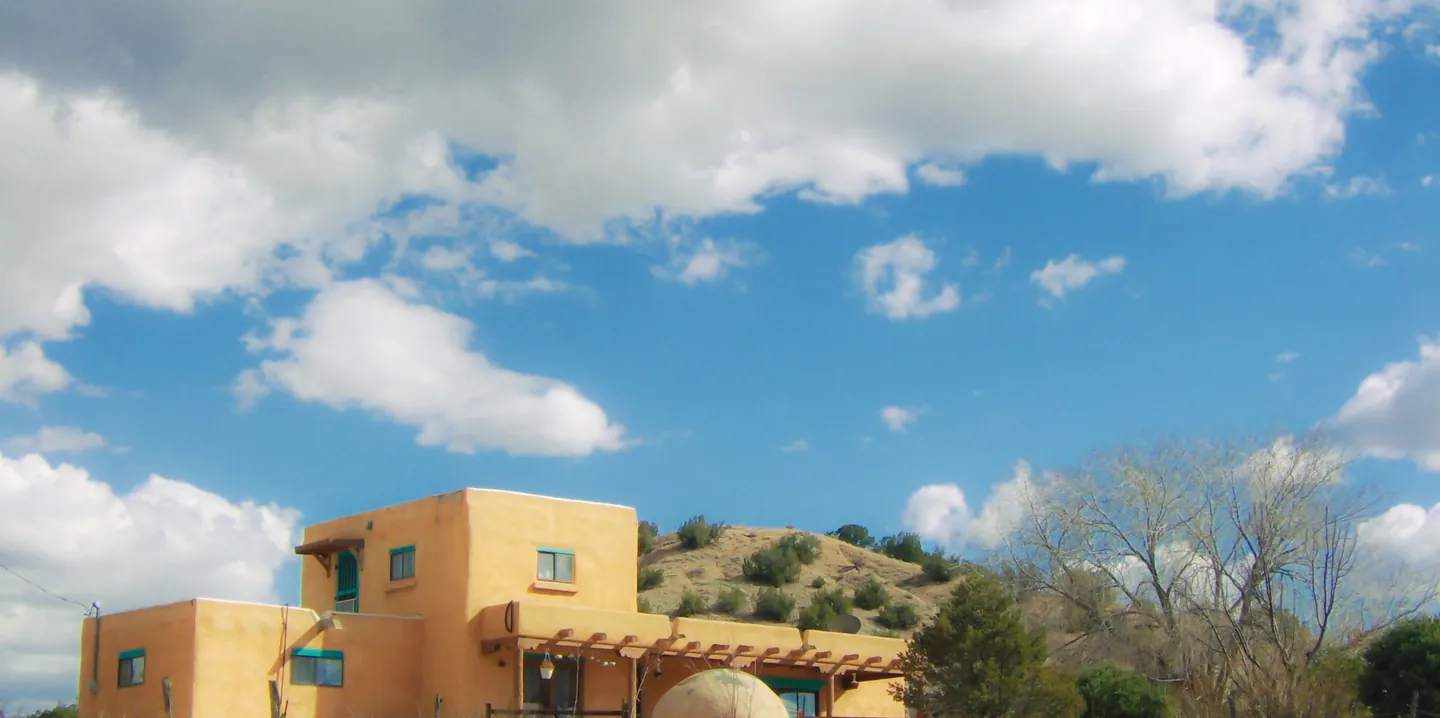
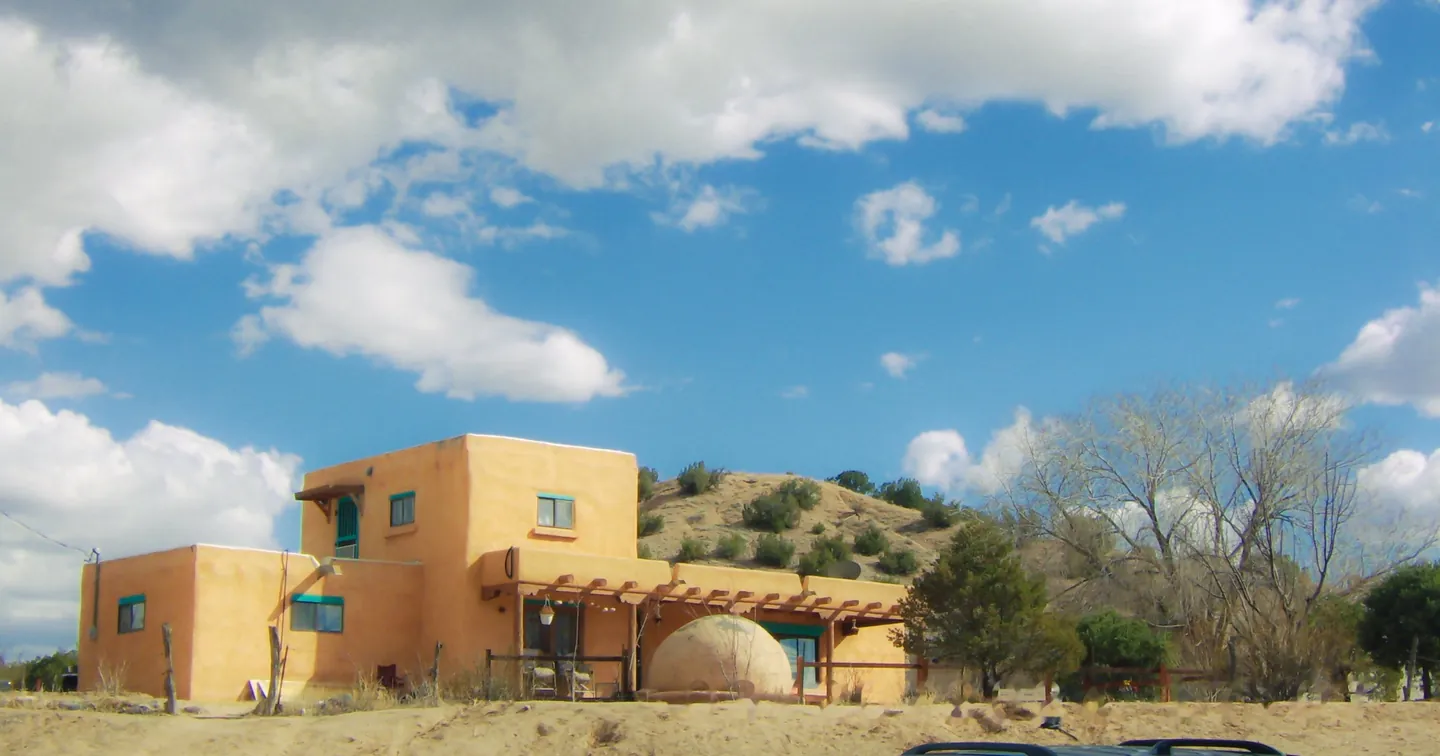
Playground: show the whole New Mexico house
Claude-Session: https://claude.ai/code/session_01875CSNwfGd66xMw2hjDbMm

diff --git a/playground.html b/playground.html
@@ -12,45 +12,45 @@
     html, body { overflow-x: clip; }
     .sr-only { position: absolute; width: 1px; height: 1px; margin: -1px; padding: 0; overflow: hidden; clip: rect(0 0 0 0); white-space: nowrap; border: 0; }
     main { max-width: none; padding-inline: 0; }
-    .gallery { position: relative; width: 100vw; margin: 1.5rem calc(50% - 50vw) 1rem; aspect-ratio: 100 / 200.41; }
+    .gallery { position: relative; width: 100vw; margin: 1.5rem calc(50% - 50vw) 1rem; aspect-ratio: 100 / 201.32; }
     .g-tile { position: absolute; overflow: hidden; border-radius: 4px; background: var(--panel); }
     .g-tile img { display: block; width: 100%; height: 100%; object-fit: cover; }
   .g-waterfall{left:-2.00%;top:0.00%;width:34.00%}
-  .g-old-friends-2025{left:69.43%;top:1.00%;width:31.28%}
-  .g-dance-class{left:33.00%;top:2.99%;width:34.00%}
-  .g-gloves{left:35.38%;top:15.66%;width:29.24%}
-  .g-coast-cliff{left:68.28%;top:21.55%;width:32.64%}
-  .g-rudy-2026{left:-2.00%;top:26.75%;width:34.00%}
-  .g-back-portrait{left:68.93%;top:33.82%;width:31.28%}
-  .g-church{left:33.00%;top:35.69%;width:34.00%}
-  .g-upside-down-2026{left:35.38%;top:48.53%;width:29.24%}
-  .g-earring{left:-2.00%;top:48.91%;width:32.64%}
-  .g-adobe{left:68.00%;top:56.25%;width:34.00%}
-  .g-no-title-2023{left:34.36%;top:61.52%;width:31.28%}
-  .g-necklaces{left:68.00%;top:65.70%;width:34.00%}
-  .g-train{left:0.45%;top:74.71%;width:29.24%}
-  .g-friends-group{left:33.68%;top:82.27%;width:32.64%}
-  .g-luvlimbo-table{left:-2.00%;top:85.90%;width:34.00%}
-  .g-group{left:69.78%;top:87.86%;width:31.28%}
+  .g-old-friends-2025{left:69.43%;top:0.99%;width:31.28%}
+  .g-dance-class{left:33.00%;top:2.98%;width:34.00%}
+  .g-gloves{left:35.38%;top:15.59%;width:29.24%}
+  .g-coast-cliff{left:68.28%;top:21.45%;width:32.64%}
+  .g-rudy-2026{left:-2.00%;top:26.63%;width:34.00%}
+  .g-back-portrait{left:68.93%;top:33.67%;width:31.28%}
+  .g-church{left:33.00%;top:35.53%;width:34.00%}
+  .g-upside-down-2026{left:35.38%;top:48.31%;width:29.24%}
+  .g-earring{left:-2.00%;top:48.69%;width:32.64%}
+  .g-adobe{left:68.00%;top:56.00%;width:34.00%}
+  .g-no-title-2023{left:34.36%;top:61.24%;width:31.28%}
+  .g-necklaces{left:68.00%;top:65.86%;width:34.00%}
+  .g-train{left:0.45%;top:74.37%;width:29.24%}
+  .g-friends-group{left:33.68%;top:81.90%;width:32.64%}
+  .g-luvlimbo-table{left:-2.00%;top:85.51%;width:34.00%}
+  .g-group{left:69.78%;top:87.92%;width:31.28%}
     @media (max-width: 760px) {
-      .gallery { aspect-ratio: 100 / 496.71; }
+      .gallery { aspect-ratio: 100 / 498.21; }
       .g-waterfall{left:-6.00%;top:0.00%;width:56.00%}
       .g-old-friends-2025{left:50.00%;top:1.41%;width:53.20%}
-      .g-dance-class{left:50.00%;top:15.41%;width:56.00%}
-      .g-gloves{left:-2.39%;top:17.72%;width:50.40%}
-      .g-coast-cliff{left:50.00%;top:23.69%;width:56.00%}
-      .g-rudy-2026{left:50.00%;top:31.72%;width:53.20%}
-      .g-back-portrait{left:-6.00%;top:31.76%;width:56.00%}
-      .g-church{left:55.60%;top:45.79%;width:50.40%}
-      .g-upside-down-2026{left:-6.00%;top:47.43%;width:56.00%}
-      .g-earring{left:50.00%;top:53.31%;width:53.20%}
-      .g-adobe{left:-6.00%;top:56.97%;width:56.00%}
-      .g-no-title-2023{left:-3.05%;top:63.10%;width:50.40%}
-      .g-necklaces{left:50.00%;top:69.97%;width:56.00%}
-      .g-train{left:-4.97%;top:76.33%;width:53.20%}
-      .g-friends-group{left:50.00%;top:84.16%;width:56.00%}
-      .g-luvlimbo-table{left:-2.20%;top:84.23%;width:50.40%}
-      .g-group{left:-6.00%;top:91.55%;width:56.00%}
+      .g-dance-class{left:50.00%;top:15.36%;width:56.00%}
+      .g-gloves{left:-2.39%;top:17.67%;width:50.40%}
+      .g-coast-cliff{left:50.00%;top:23.61%;width:56.00%}
+      .g-rudy-2026{left:50.00%;top:31.62%;width:53.20%}
+      .g-back-portrait{left:-6.00%;top:31.66%;width:56.00%}
+      .g-church{left:55.60%;top:45.65%;width:50.40%}
+      .g-upside-down-2026{left:-6.00%;top:47.29%;width:56.00%}
+      .g-earring{left:50.00%;top:53.15%;width:53.20%}
+      .g-adobe{left:-6.00%;top:56.80%;width:56.00%}
+      .g-no-title-2023{left:-3.05%;top:63.21%;width:50.40%}
+      .g-necklaces{left:50.00%;top:69.76%;width:56.00%}
+      .g-train{left:-4.97%;top:76.40%;width:53.20%}
+      .g-friends-group{left:50.00%;top:83.91%;width:56.00%}
+      .g-luvlimbo-table{left:-2.20%;top:84.28%;width:50.40%}
+      .g-group{left:-6.00%;top:91.58%;width:56.00%}
     }
     .home-link { display: flex; justify-content: center; padding-bottom: 2.5rem; margin: 0; }
     .home-link a { font-family: var(--font-sans); font-size: .8125rem; line-height: 1; color: var(--dim); text-decoration: underline; text-underline-offset: .25em; text-decoration-thickness: 1px; padding: .9rem .75rem; min-height: 44px; display: inline-flex; align-items: center; transition: color var(--fade); }
@@ -78,7 +78,7 @@
       <div class="g-tile g-church" style="aspect-ratio:2576 / 1719"><img src="images/play-church-1440.webp" srcset="images/play-church-480.webp 480w, images/play-church-960.webp 960w, images/play-church-1440.webp 1440w" sizes="(max-width: 760px) 50vw, 34vw" width="2576" height="1719" alt="" loading="lazy" decoding="async"></div>
       <div class="g-tile g-upside-down-2026" style="aspect-ratio:2050 / 1650"><img src="images/play-upside-down-2026-1440.webp" srcset="images/play-upside-down-2026-480.webp 480w, images/play-upside-down-2026-960.webp 960w, images/play-upside-down-2026-1440.webp 1440w" sizes="(max-width: 760px) 56vw, 29vw" width="2050" height="1650" alt="" loading="lazy" decoding="async"></div>
       <div class="g-tile g-earring" style="aspect-ratio:1717 / 2576"><img src="images/play-earring-1440.webp" srcset="images/play-earring-480.webp 480w, images/play-earring-960.webp 960w, images/play-earring-1440.webp 1440w" sizes="(max-width: 760px) 53vw, 33vw" width="1717" height="2576" alt="" loading="lazy" decoding="async"></div>
-      <div class="g-tile g-adobe" style="aspect-ratio:2576 / 1284"><img src="images/play-adobe-1440.webp" srcset="images/play-adobe-480.webp 480w, images/play-adobe-960.webp 960w, images/play-adobe-1440.webp 1440w" sizes="(max-width: 760px) 56vw, 34vw" width="2576" height="1284" alt="" loading="lazy" decoding="async"></div>
+      <div class="g-tile g-adobe" style="aspect-ratio:2576 / 1353"><img src="images/play-adobe-1440.webp" srcset="images/play-adobe-480.webp 480w, images/play-adobe-960.webp 960w, images/play-adobe-1440.webp 1440w" sizes="(max-width: 760px) 56vw, 34vw" width="2576" height="1353" alt="" loading="lazy" decoding="async"></div>
       <div class="g-tile g-no-title-2023" style="aspect-ratio:1650 / 2050"><img src="images/play-no-title-2023-1440.webp" srcset="images/play-no-title-2023-480.webp 480w, images/play-no-title-2023-960.webp 960w, images/play-no-title-2023-1440.webp 1440w" sizes="(max-width: 760px) 50vw, 31vw" width="1650" height="2050" alt="" loading="lazy" decoding="async"></div>
       <div class="g-tile g-necklaces" style="aspect-ratio:2120 / 2576"><img src="images/play-necklaces-1440.webp" srcset="images/play-necklaces-480.webp 480w, images/play-necklaces-960.webp 960w, images/play-necklaces-1440.webp 1440w" sizes="(max-width: 760px) 56vw, 34vw" width="2120" height="2576" alt="" loading="lazy" decoding="async"></div>
       <div class="g-tile g-train" style="aspect-ratio:2576 / 1719"><img src="images/play-train-1440.webp" srcset="images/play-train-480.webp 480w, images/play-train-960.webp 960w, images/play-train-1440.webp 1440w" sizes="(max-width: 760px) 53vw, 29vw" width="2576" height="1719" alt="" loading="lazy" decoding="async"></div>
